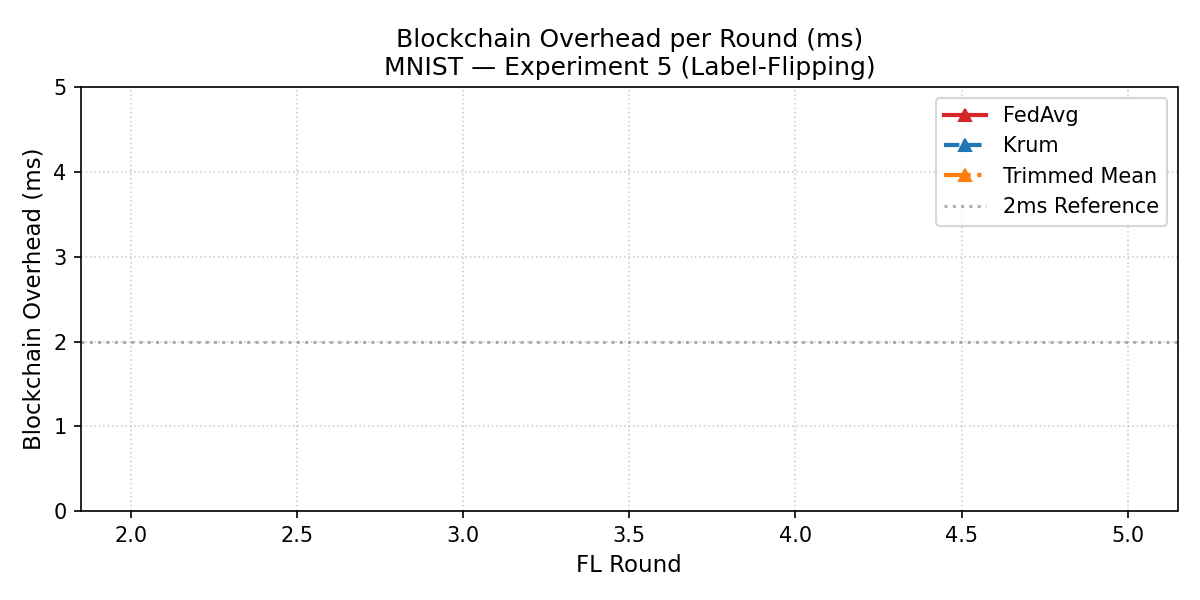
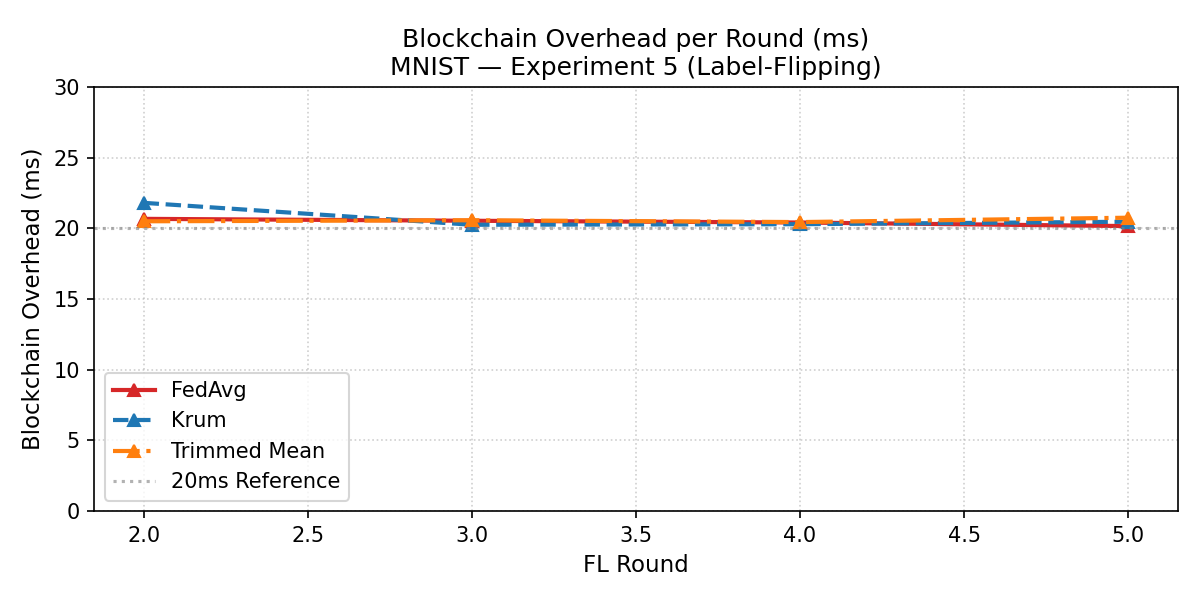
edit plot config

diff --git a/Exp_5/Exp5_quorum_pc_ver2/plot_exp5.py b/Exp_5/Exp5_quorum_pc_ver2/plot_exp5.py
@@ -226,11 +226,11 @@ def plot_blockchain_overhead():
         plt.close(fig)
         return
 
-    ax.axhline(y=2.0, color="gray", linestyle=":", alpha=0.6, label="2ms Reference")
+    ax.axhline(y=20.0, color="gray", linestyle=":", alpha=0.6, label="20ms Reference")
     ax.set_title("Blockchain Overhead per Round (ms)\nMNIST — Experiment 5 (Label-Flipping)", fontsize=12)
     ax.set_xlabel("FL Round", fontsize=11)
     ax.set_ylabel("Blockchain Overhead (ms)", fontsize=11)
-    ax.set_ylim(0, 5)
+    ax.set_ylim(0, 30)
     ax.legend(fontsize=10)
     ax.grid(True, linestyle=":", alpha=0.6)
 